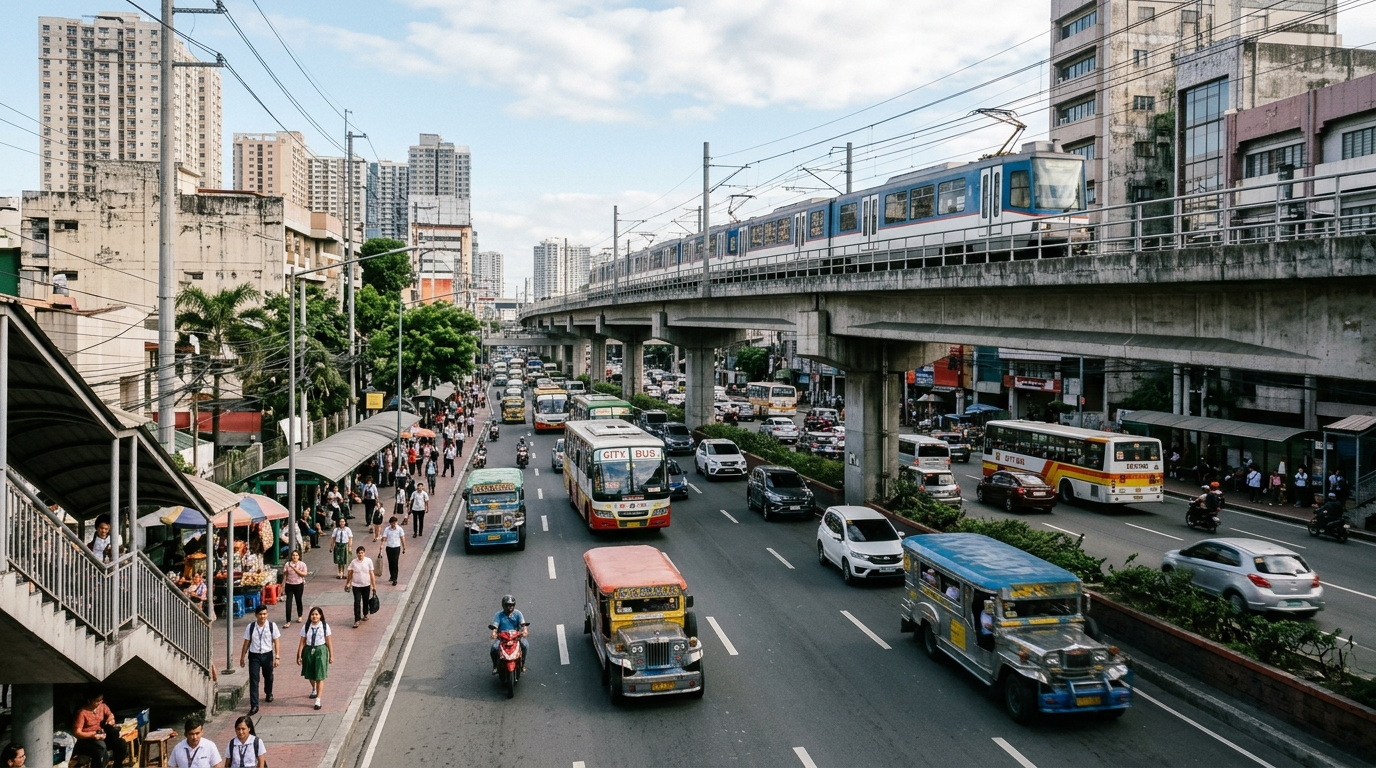
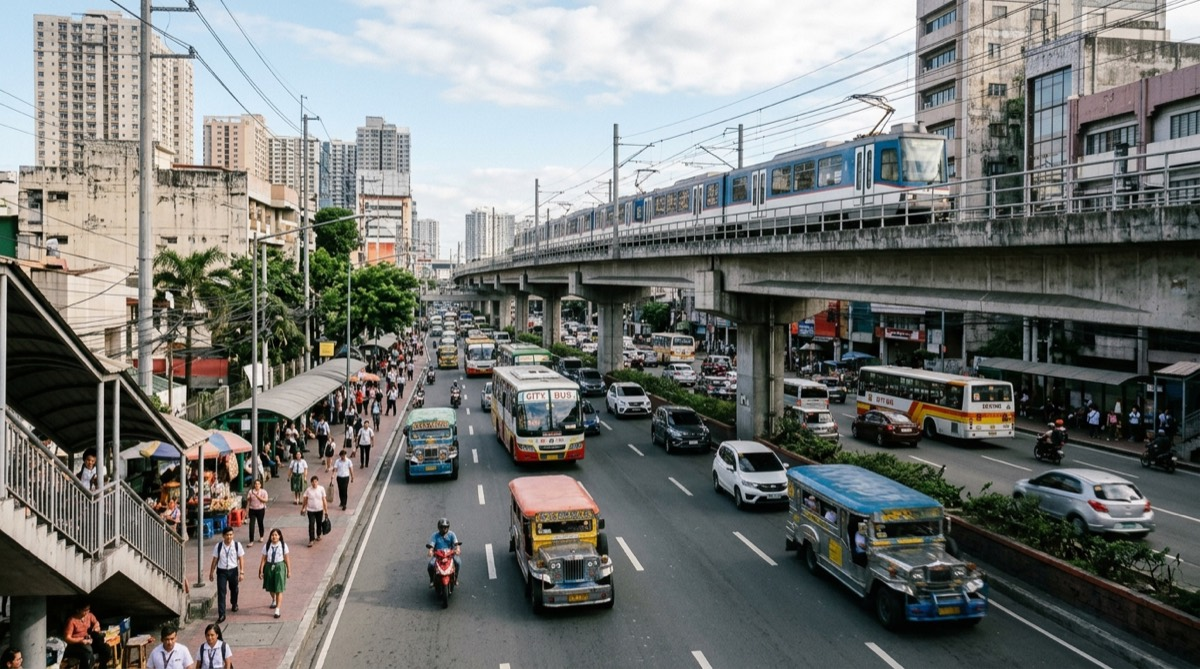
Add card image hover transitions, keyboard focus outlines, and optimize photos

diff --git a/src/index.css b/src/index.css
@@ -6,10 +6,20 @@ body {
 a {
   color: #111;
   text-decoration: none;
+  transition: color 150ms ease;
 }
 
 a:hover {
   color: #0B3D91;
+}
+
+a:focus-visible,
+button:focus-visible,
+input:focus-visible,
+select:focus-visible,
+textarea:focus-visible {
+  outline: 2px solid #0B3D91;
+  outline-offset: 2px;
 }
 
 .ph {
@@ -35,6 +45,11 @@ a:hover {
   height: 100%;
   object-fit: cover;
   display: block;
+  transition: transform 280ms ease;
+}
+
+a:hover .ph--photo img {
+  transform: scale(1.025);
 }
 
 .ph svg {
